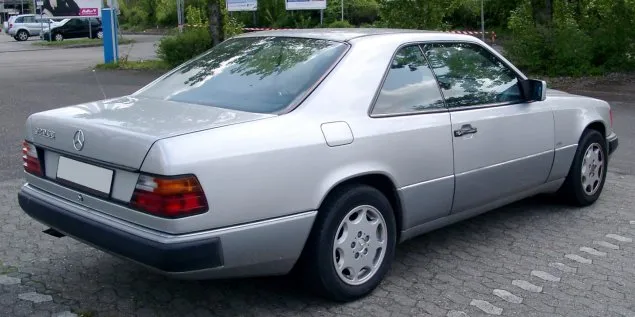
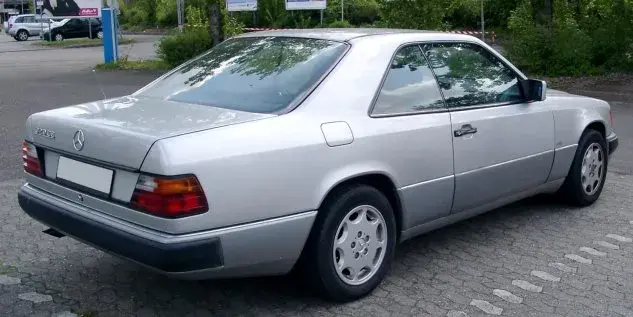
246

diff --git a/pic/ja_mb_img_ce.html b/pic/ja_mb_img_ce.html
@@ -422,7 +422,7 @@
 						<h4 class="displayNone">Coupe</h4>
 						<a href="full/ce/c124_d.jpg"><img loading="lazy" src="style/ce/c124_d.webp" alt="メルセデス,C124,ダッシュボード" width="1210" height="807"></a><br>
 						<a href="full/ce/c124_f.jpg"><img loading="lazy" src="style/ce/c124_f.webp" alt="メルセデス,C124,フロント" width="572" height="317"></a>
-						<a href="full/ce/c124_r.jpg"><img loading="lazy" src="style/ce/c124_r.webp" alt="メルセデス,C124,リヤ" width="635" height="317"></a><br>
+						<a href="full/ce/c124_r.jpg"><img loading="lazy" src="style/ce/c124_r.webp" alt="メルセデス,C124,リヤ" width="633" height="317"></a><br>
 						<h5 class="i">フェイスリフト</h5>
 						<p class="i m1">09/1993</p><br>
 						<a href="full/ce/c124_f2.jpg"><img loading="lazy" src="style/ce/c124_f2.webp" alt="メルセデス,C124,Eクラス,クーペ,フロント" width="618" height="318"></a>

diff --git a/pic/mb_img_ce.html b/pic/mb_img_ce.html
@@ -423,7 +423,7 @@
 						<h4 class="displayNone">Coupé</h4>
 						<a href="full/ce/c124_d.jpg"><img loading="lazy" src="style/ce/c124_d.webp" alt="Mercedes,C124,Instrumententafel" width="1210" height="807"></a><br>
 						<a href="full/ce/c124_f.jpg"><img loading="lazy" src="style/ce/c124_f.webp" alt="Mercedes,C124,Vorderansicht" width="572" height="317"></a>
-						<a href="full/ce/c124_r.jpg"><img loading="lazy" src="style/ce/c124_r.webp" alt="Mercedes,C124,Rückansicht" width="635" height="317"></a><br>
+						<a href="full/ce/c124_r.jpg"><img loading="lazy" src="style/ce/c124_r.webp" alt="Mercedes,C124,Rückansicht" width="633" height="317"></a><br>
 						<h5 class="i">Modellpflege</h5>
 						<p class="i m1">09/1993</p><br>
 						<a href="full/ce/c124_f2.jpg"><img loading="lazy" src="style/ce/c124_f2.webp" alt="Mercedes,C124,E-klasse,Coupé,Vorderansicht" width="618" height="318"></a>

diff --git a/pic/en_mb_img_ce.html b/pic/en_mb_img_ce.html
@@ -422,7 +422,7 @@
 						<h4 class="displayNone">Coupe</h4>
 						<a href="full/ce/c124_d.jpg"><img loading="lazy" src="style/ce/c124_d.webp" alt="Mercedes,C124,Dashboard" width="1210" height="807"></a><br>
 						<a href="full/ce/c124_f.jpg"><img loading="lazy" src="style/ce/c124_f.webp" alt="Mercedes,C124,Front view" width="572" height="317"></a>
-						<a href="full/ce/c124_r.jpg"><img loading="lazy" src="style/ce/c124_r.webp" alt="Mercedes,C124,Rear view" width="635" height="317"></a><br>
+						<a href="full/ce/c124_r.jpg"><img loading="lazy" src="style/ce/c124_r.webp" alt="Mercedes,C124,Rear view" width="633" height="317"></a><br>
 						<h5 class="i">Facelift</h5>
 						<p class="i m1">09/1993</p><br>
 						<a href="full/ce/c124_f2.jpg"><img loading="lazy" src="style/ce/c124_f2.webp" alt="Mercedes,C124,E-class,Coupe,Front view" width="618" height="318"></a>
